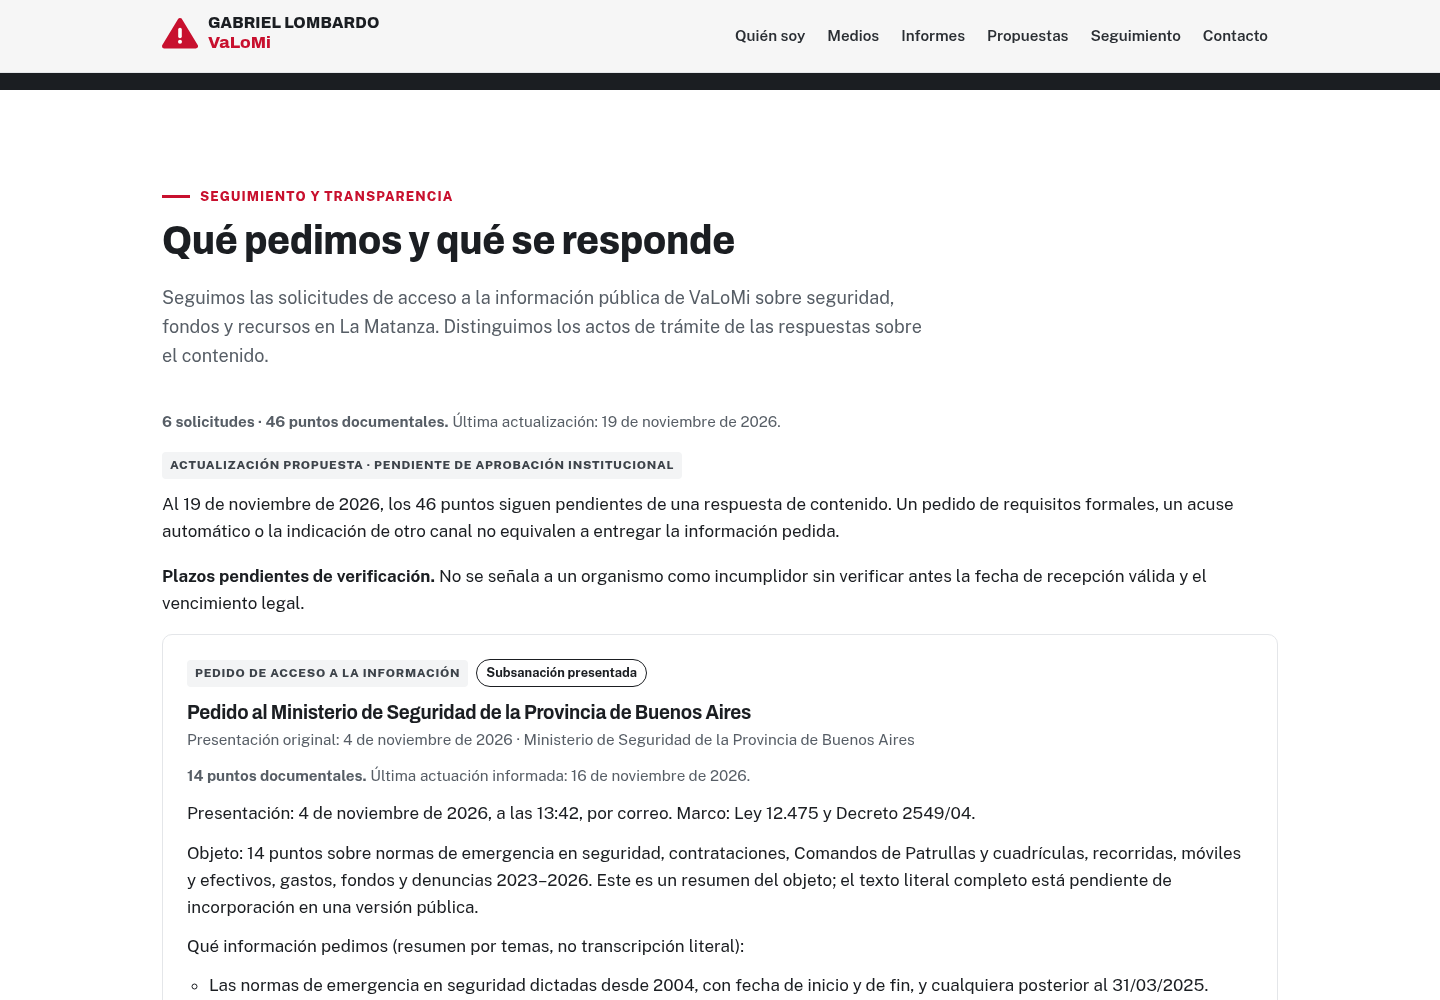
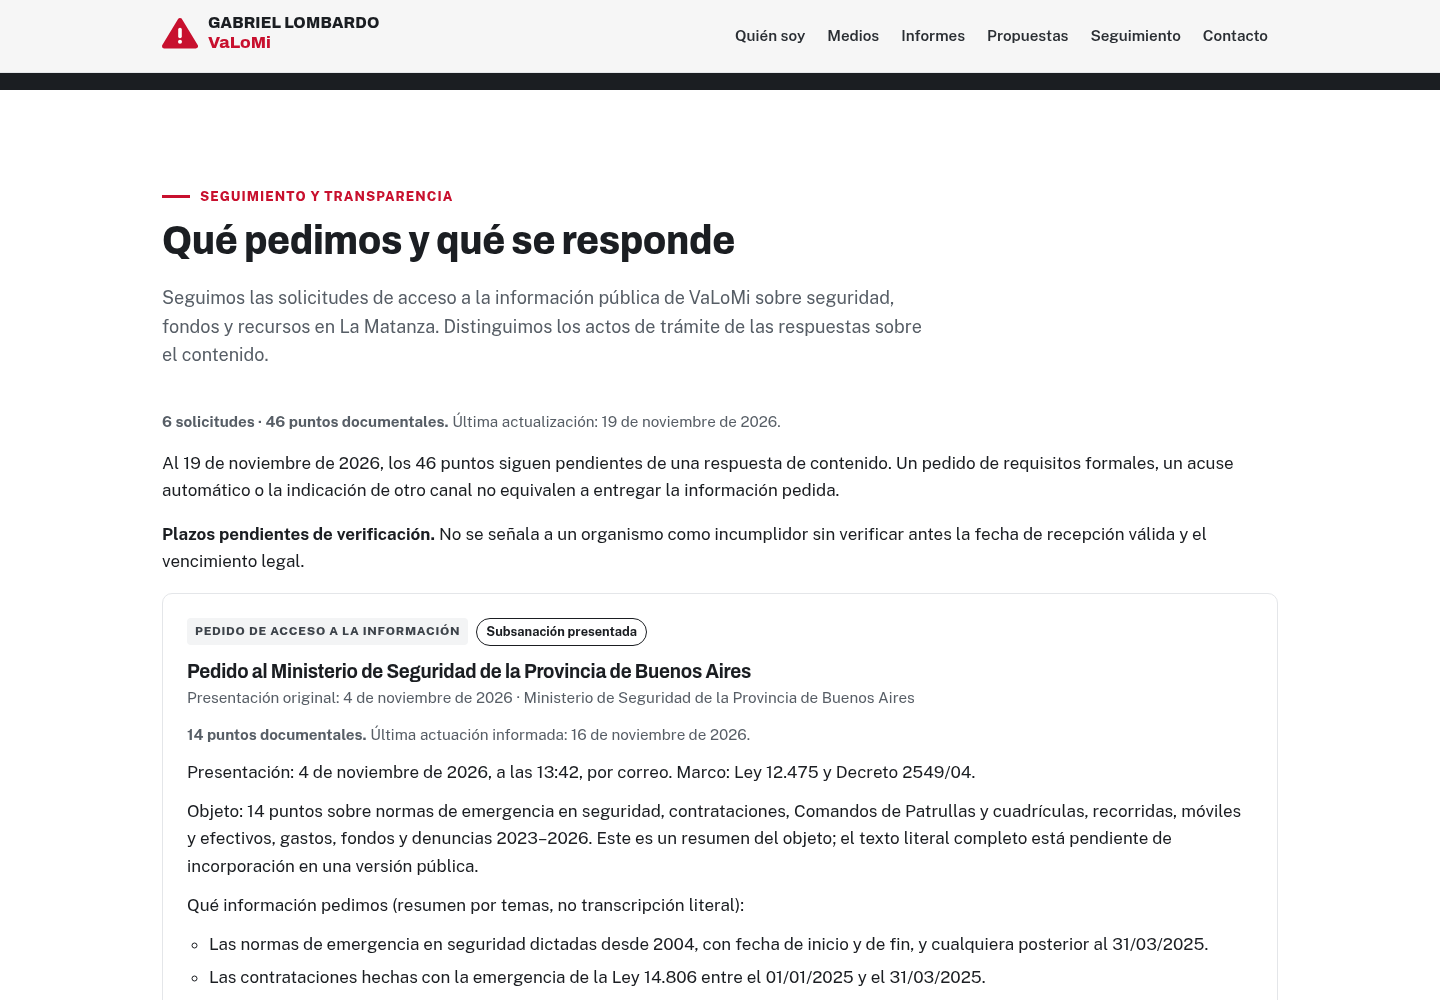
Prepara la publicación aprobada de Seguimiento

diff --git a/app/(sitio)/page.tsx b/app/(sitio)/page.tsx
@@ -398,7 +398,6 @@ export default async function Inicio() {
             <strong>{solicitudesSeguimiento.length} solicitudes · {puntosSeguimiento} puntos documentales.</strong>{' '}
             Última actualización: <time dateTime={CORTE_SEGUIMIENTO}>{fechaLarga(CORTE_SEGUIMIENTO)}</time>.
           </p>
-          <p className="etiqueta">Actualización propuesta · pendiente de aprobación institucional</p>
           <p>Al {fechaLarga(CORTE_SEGUIMIENTO)}, los {puntosSeguimiento} puntos siguen pendientes de una respuesta de contenido.
             Un pedido de requisitos formales, un acuse automático o la indicación de otro canal no equivalen a entregar la información pedida.</p>
           <p><strong>Plazos pendientes de verificación.</strong> No se señala a un organismo como incumplidor sin verificar antes la fecha de recepción válida y el vencimiento legal.</p>

diff --git a/docs/REVISION-SEGUIMIENTO.md b/docs/REVISION-SEGUIMIENTO.md
@@ -1,4 +1,4 @@
-# Actualización de Seguimiento · propuesta para aprobación
+# Actualización de Seguimiento · revisión aprobada
 
 Se actualiza la sección existente de la portada, `/#seguimiento`. No se crea otra página ni otro enlace de menú. El CSS y la presentación de las tarjetas existentes se conservan.
 
@@ -40,4 +40,6 @@ El gestor de contenido conserva los once estados cerrados y añade campos opcion
 
 Compilación Next.js y TypeScript correctas. Navegador Chromium en 1440, 1000, 768, 390 y 360 px: seis tarjetas, cantidades, estados y fechas exactos, reservas documentales, resumen de 46 puntos, navegación original y ausencia de vencimientos inventados. Sin errores JavaScript ni desborde horizontal de página. No hay formularios ni descargas documentales en el bloque; el ejemplo no aparece. La ruta adicional devuelve 404 y no existe un enlace nuevo en la navegación.
 
-Esta propuesta no se publica de forma definitiva hasta que Gabriel Armando Lombardo o quien él designe la apruebe, según las indicaciones recibidas. Producción y el dominio se conservan.
+La usuaria aprobó esta revisión para publicación el 20 de noviembre de 2026. Se retira el rótulo provisional de aprobación pendiente. Los datos conservan su corte del 19 de noviembre y todas sus reservas documentales; la aprobación de la revisión no acredita nuevas actuaciones ni verifica las constancias que faltan.
+
+La integración conserva el botón superior REPORTAR HECHO, los accesos al mapa real, ambas suscripciones de EnvíaloSimple, la indexación de producción y las descargas de los cuatro informes.

diff --git a/docs/REVISION-SUSCRIPCIONES.md b/docs/REVISION-SUSCRIPCIONES.md
@@ -23,4 +23,4 @@ Al revisar los formularios públicos, el formulario 1 tenía título de informe 
 
 La lista destinataria, la configuración de confirmación y la entrega efectiva de correos no son verificables desde la página pública sin acceder al panel o realizar un alta autorizada. La verificación realizada cubre la navegación hasta cada formulario, no un alta completa.
 
-Los cambios de Seguimiento continúan en el borrador independiente de la PR #3 y no forman parte de esta actualización.
+Esta entrega se preparó de forma independiente de Seguimiento. Su revisión en la PR #3 fue aprobada posteriormente para publicación el 20 de noviembre de 2026.

diff --git a/docs/REVISION-MAPA-INDEXACION.md b/docs/REVISION-MAPA-INDEXACION.md
@@ -26,4 +26,4 @@ Compilación de Next.js y TypeScript en Production y Preview. Cinco combinacione
 - [Portada en escritorio](vistas/mapa-indexacion/portada-1440.png)
 - [Portada en móvil](vistas/mapa-indexacion/portada-390.png)
 
-Esta corrección es independiente del borrador de Seguimiento, que sigue pendiente de la aprobación institucional indicada por VaLoMi.
+Esta entrega se preparó de forma independiente de Seguimiento. Su revisión en la PR #3 fue aprobada posteriormente para publicación el 20 de noviembre de 2026.
